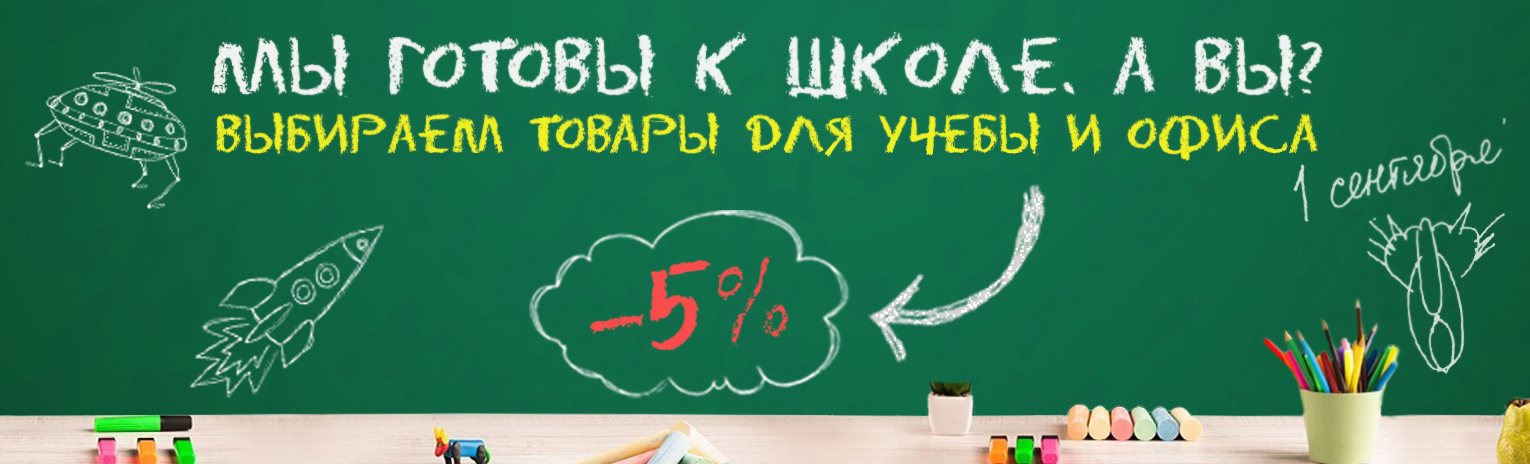
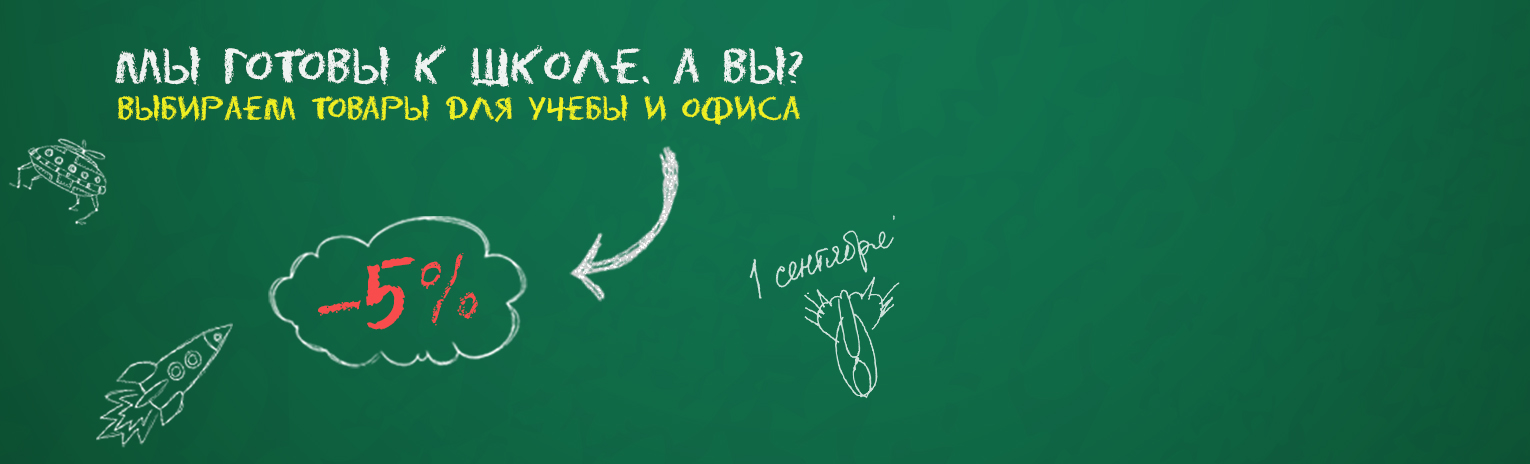
added new Slide example edited 3

diff --git a/WEBAPPS-SHOP/paperki-shop/src/main/webapp/WEB-INF/view/templates/components/mainslider/mainslider.html b/WEBAPPS-SHOP/paperki-shop/src/main/webapp/WEB-INF/view/templates/components/mainslider/mainslider.html
@@ -1,7 +1,7 @@
 <div th:fragment="mainslider" class="slide-main" xmlns:th="http://www.w3.org/1999/xhtml">
     <div class="main-carousel">
         <div class="slick-slide-item image">
-            <img src="/res/img/slider/my-gotovy-k-schkole.png" alt="slide1">
+            <img src="/res/img/slider/my-gotovy-k-sckole.jpg" alt="slide1">
             <!--<div class="slick-slide-text">
                 <h2 class="title-slider">Мы готовы к школе а Вы? <br>KUMON</h2>
                 <p class="info-slider">Японская методика развития для детей от 2 до 10 лет</p>
